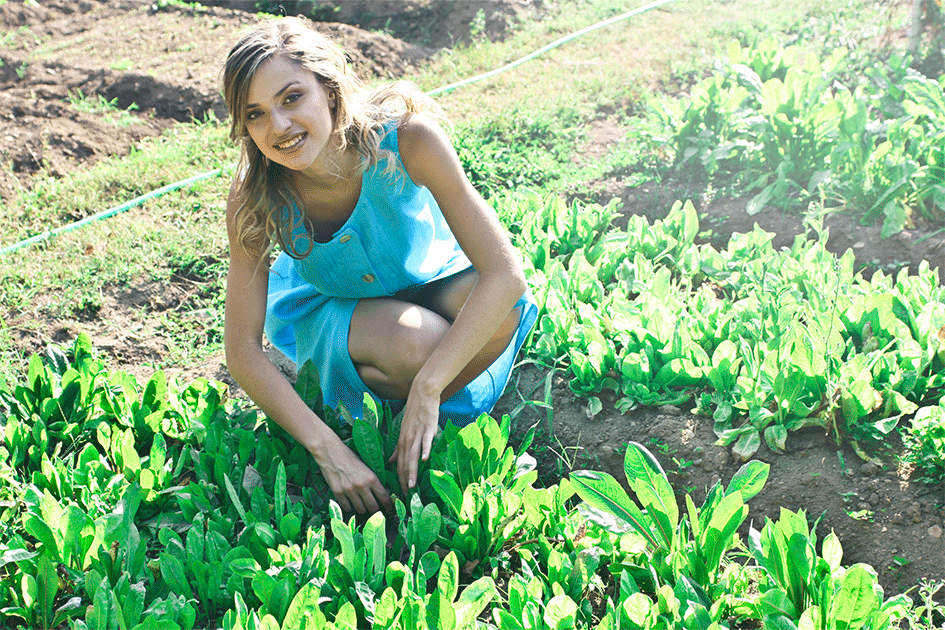
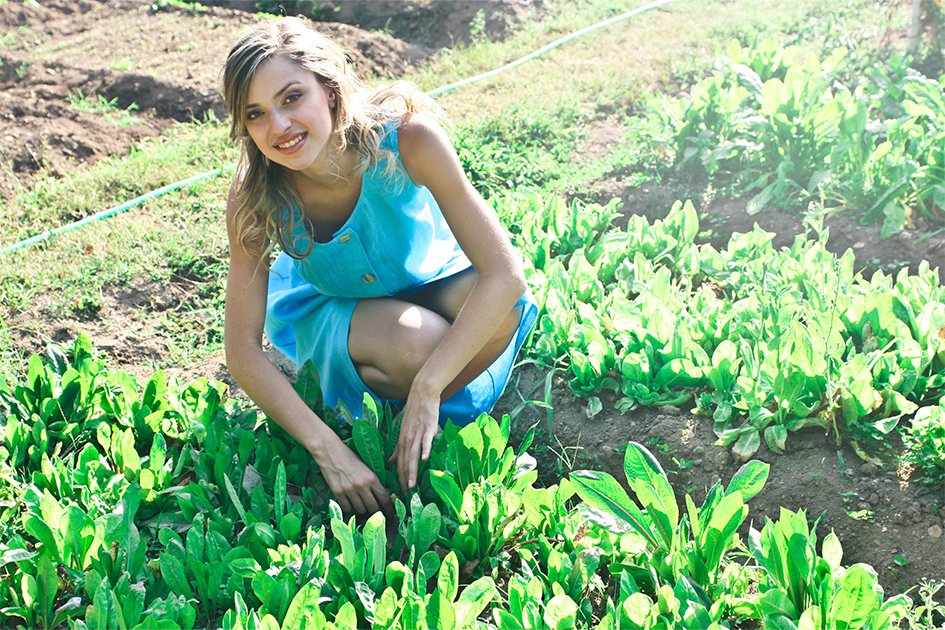
tidy up images

diff --git a/assets/css/style.css b/assets/css/style.css
@@ -67,7 +67,7 @@ header {
 #hero-image {
     height: 650px;
     width: 100%;
-    background: url("../images/woman-in-blue-2600x1000.gif") no-repeat center center;
+    background: url("../images/woman-in-blue-2600x1000.png") no-repeat center center;
     background-size: cover;
     line-height: 0px;
     /* removes the white gap */
@@ -461,7 +461,7 @@ footer {
     }
 
     #hero-image {
-        background: url("../images/woman-in-blue-900x1400.gif") no-repeat center center;
+        background: url("../images/woman-in-blue-900x1400.png") no-repeat center center;
         height: 1400px;
         /*add same image height so it will be centered*/
         background-size: cover;
@@ -496,7 +496,7 @@ footer {
 /*small screen*/
 @media screen and (max-width: 745px) {
     #hero-image {
-        background: url("../images/woman-in-blue-900x1400.gif") no-repeat center center;
+        background: url("../images/woman-in-blue-900x1400.png") no-repeat center center;
         height: 800px;
         background-size: cover;
         aspect-ratio: 1 / 1;

diff --git a/locations.html b/locations.html
@@ -50,7 +50,7 @@
                     <div class="card">
                         <img class="card-img"
                             src="assets/images/overhead-view-male-female-gardener-working-vegetable-garden.jpg"
-                            alt="Top view of a ouple working in a vegetable garden">
+                            alt="Top view of a couple working in a vegetable garden">
                         <div class="container">
                             <h4><b>Location 1</b></h4>
                             <p>Here you can plant potatoes</p>
